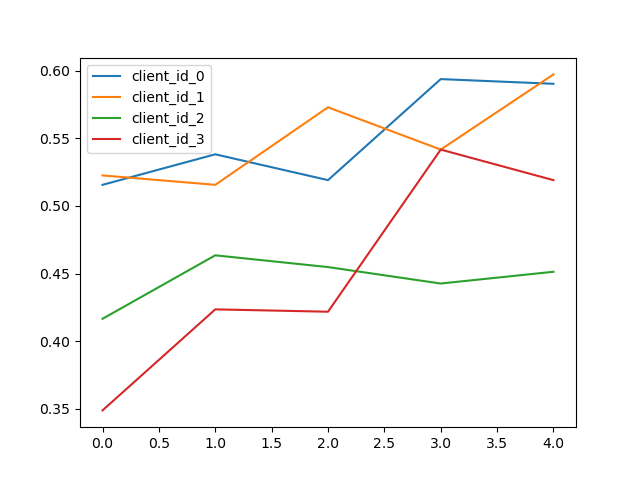
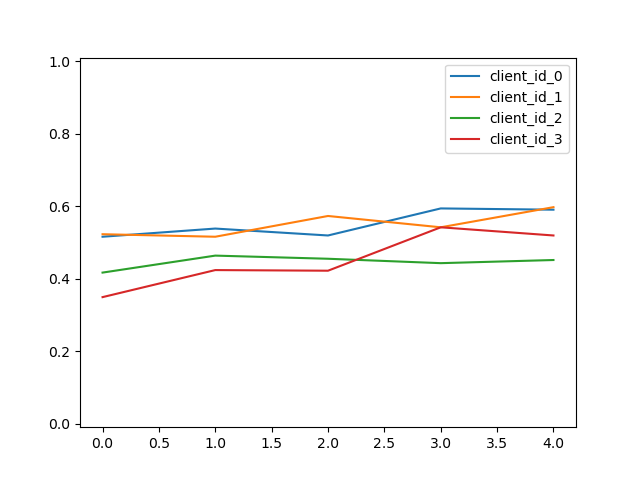
image

diff --git a/image.py b/image.py
@@ -7,6 +7,8 @@ def generate_image(arr, name):
 	for client_id, row in enumerate(arr):
 		plt.plot(np.arange(len(row)), row, label='client_id_'+str(client_id))
 	plt.legend()
+	if 'acc' in name:
+		plt.ylim([-.01, 1.01])
 	plt.savefig(name)
 
 if __name__ == '__main__':
